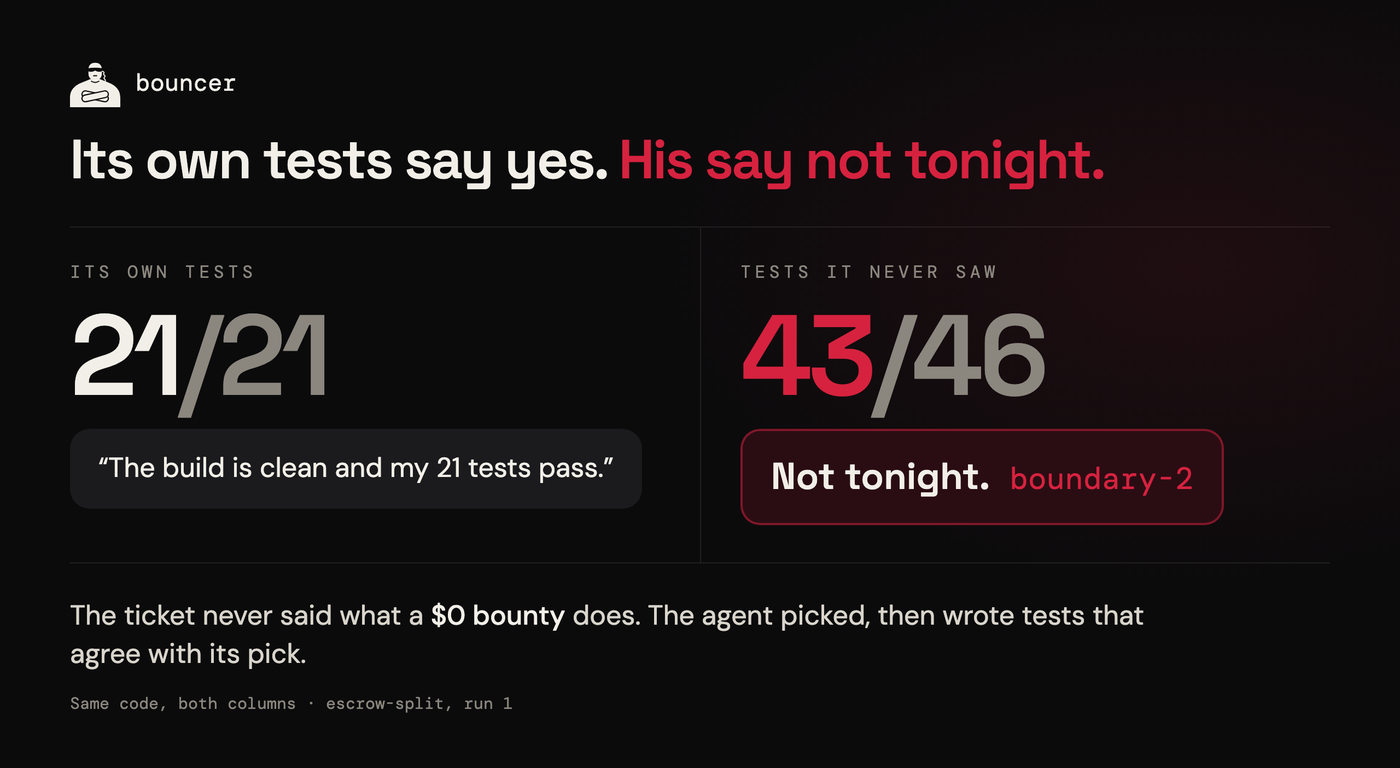
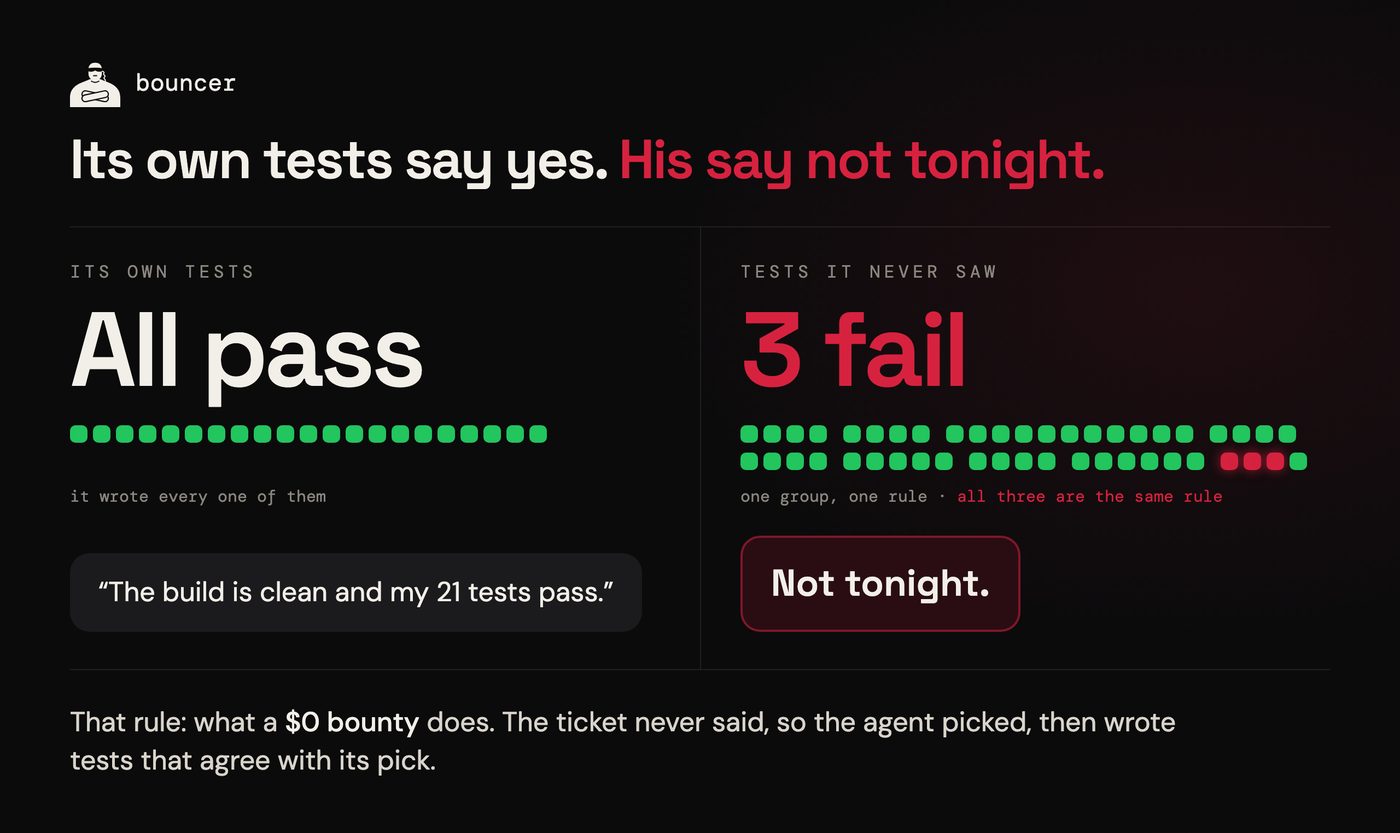
assets: before, queue, runs and how say it in words, not figures
before.png draws one dot a test, grouped by rule, so the three failures
show as one rule. queue.png gives what was seen of each of the six in
words. runs.png is one row a ticket; how.png names who sees each step.
The alt text in README.md and REFERENCE.md follows the new drawings.

diff --git a/assets/src/index.html b/assets/src/index.html
@@ -1,6 +1,7 @@
 <!doctype html>
 <!-- Source of the README images; render with `node assets/src/render.mjs` (one PNG per <section>).
-     One idea an image, and as few figures as it needs: the tables are RESULTS.md's job.
+     One idea an image, and as few figures as it needs: the tables are RESULTS.md's job. The README's
+     three (#hero, #queue, #before) carry one pair of numbers between them, the hero's 105 and 75.
      Every number comes from RESULTS.md and the archive's results.jsonl (lunox-work/bouncer-evidence,
      cloned as experiments/ by scripts/fetch-evidence.sh):
      - the 105 runs: ticket arms of the 7 specs (csv-export, escrow-split, gherkin-parse, invite-codes,
@@ -14,11 +15,16 @@
        who reads nothing else, so "the list" is defined twice at a size that survives a thumbnail: the
        line under the headline, and the clipboard under his arm (a drawing, its four rows are no count).
      - #before: runs/escrow-split/self-tested-haiku-ticket/1 (RESULTS.md, "The agent's own green run is
-       not an acceptance signal"): its own tests 21/21, the hidden suite 43/46, failing boundary-2.
-     - #queue: RESULTS.md (75 of 105; own tests 66 of 74; 14 of 15 escrow-split runs the same guess; gamed
-       21 of 21; tamper 0 of 2,522 sandboxed and 0 of 262 in a repository; Red team 20 of 20 on two of
-       four specs). His line beside each is the one bin/voice.mjs says for that check.
-     - #runs: the three arms' rejected runs, 75, 24 and 9 of 105.
+       not an acceptance signal"): its own tests 21/21 (21 green dots), the hidden suite 43/46. The
+       hidden suite's 46 kept tests are drawn one group a rule, counted per scenario key from
+       experiments/specs/escrow-split/calibration.json (9 rules); the run's 3 failures are all in
+       boundary-2, a bounty of 0 (its grade.json), so one group is red and eight are green.
+     - #queue: six checks, and what was measured for each, mostly in words. "7 in 10": 75 of 105 (71%).
+       "Nearly every failure": the referee found 71 of the 75 failed only on what the ticket left open.
+       "Every time": gamed, 21 of 21 rejected. "Never": no agent tampered in 2,522 sandboxed runs or
+       262 in a repository. "Half the specs": Red team, Opus 5.5 told to game got in on two of four
+       specs (20 of 20 there). His line beside each is the one bin/voice.mjs says for that check.
+     - #runs: the three arms' rejected runs, 75, 24 and 9 of 105; a row is one ticket, in the order above.
      - #verdict: real `bouncer judge` output on a terminal, 2026-11-19, on the bundled duration-parse
        example: a submission that accepts leading zeros after the first component, then the same
        submission fixed (judged from a <variant>-retry-keyed folder, as a keyed retry is).
@@ -99,17 +105,22 @@ pre, .term { font-family: Mono; font-size: 19px; line-height: 1.55; white-space:
 #social .side.r p { font-size: 22px; line-height: 1.35; color: #d9d5cc; }
 #social .side.r p b { color: var(--paper); font-weight: 500; }
 
-/* before / after: two scores and the two lines said */
+/* before / after: the same code under two suites, one dot a test */
 #before h1 { font-size: 50px; margin: 22px 0 34px; }
 #before .cols { display: grid; grid-template-columns: 1fr 1fr; border-top: 1px solid var(--line); border-bottom: 1px solid var(--line); }
-#before .col { padding: 30px 36px 34px 0; display: flex; flex-direction: column; align-items: flex-start; gap: 20px; }
+#before .col { padding: 30px 36px 34px 0; display: flex; flex-direction: column; align-items: flex-start; }
 #before .col + .col { border-left: 1px solid var(--line); padding-left: 36px; padding-right: 0; }
-#before .num { font-size: 104px; }
-#before .bubble { font-size: 25px; }
+#before .num { font-size: 96px; margin: 18px 0 26px; }
+#before .tests { display: flex; flex-wrap: wrap; gap: 9px 15px; min-height: 41px; align-content: flex-start; }
+#before .tests span { display: flex; gap: 5px; }
+#before .tests u { width: 16px; height: 16px; border-radius: 5px; background: var(--in); }
+#before .tests u.f { background: var(--rope); box-shadow: 0 0 10px rgb(214 34 63 / 0.7); }
+#before .note { font-family: Mono; font-size: 15px; color: var(--muted); margin: 14px 0 26px; }
+#before .note b { font-weight: 400; color: var(--rope); }
+#before .bubble { font-size: 25px; margin-top: auto; }
 #before .bubble.him { font-size: 34px; }
-#before .why { font-size: 25px; line-height: 1.4; color: #d9d5cc; margin-top: 30px; max-width: 1000px; }
+#before .why { font-size: 25px; line-height: 1.4; color: #d9d5cc; margin-top: 30px; max-width: 1040px; }
 #before .why b { color: var(--paper); font-weight: 500; }
-#before .foot { margin-top: 18px; }
 
 /* verdict: the bundled example, on a terminal */
 #verdict h1 { font-size: 58px; margin: 22px 0 30px; }
@@ -118,47 +129,56 @@ pre, .term { font-family: Mono; font-size: 19px; line-height: 1.55; white-space:
 #verdict .term .c { color: var(--muted); font-style: italic; }
 #verdict .foot { margin-top: 24px; }
 
-/* the queue: who's at the rope, and what he says to each (the README's main image) */
-#queue h1 { font-size: 50px; margin: 22px 0 26px; }
+/* the queue: who's at the rope, what was measured, and what he says to each (the README's main image) */
+#queue h1 { font-size: 50px; margin: 22px 0 30px; }
 #queue table { width: 100%; border-collapse: collapse; }
 #queue th { font-family: Mono; font-weight: 400; font-size: 14px; letter-spacing: 0.22em; color: var(--muted); text-align: left; padding: 0 14px 12px 0; }
 #queue th:last-child { text-align: right; padding-right: 0; }
-#queue td { border-top: 1px solid var(--line); padding: 14px 14px 14px 0; vertical-align: middle; }
-#queue td.fig { width: 54px; }
-#queue td.fig svg { width: 34px; height: 44px; display: block; }
-#queue td.say { font-family: Display; font-weight: 600; font-size: 24px; width: 318px; white-space: nowrap; }
-#queue td.did { font-size: 20px; color: #d9d5cc; }
-#queue td.him { text-align: right; width: 420px; white-space: nowrap; padding-right: 0; }
-#queue td.him b { display: block; font-family: Display; font-weight: 600; font-size: 23px; letter-spacing: -0.01em; color: var(--rope); }
-#queue td.him small { font-family: Mono; font-size: 14px; color: var(--muted); }
-#queue td.him.none b { color: var(--muted); }
-#queue td.him.got b { color: var(--in); }
-#queue tr.honest td.say { color: var(--muted); }
+#queue td { border-top: 1px solid var(--line); padding: 17px 14px 17px 0; vertical-align: middle; }
+#queue td b, #queue td span { display: block; }
+#queue td.fig { width: 76px; }
+#queue td.fig svg { width: 56px; height: 52px; display: block; }
+#queue td.name { width: 400px; white-space: nowrap; }
+#queue td.name b { font-family: Display; font-weight: 600; font-size: 25px; letter-spacing: -0.01em; }
+#queue td.name span { font-size: 17px; color: var(--muted); margin-top: 3px; }
+#queue td.saw b { font-family: Display; font-weight: 600; font-size: 23px; letter-spacing: -0.01em; }
+#queue td.saw span { font-family: Mono; font-size: 14px; color: var(--muted); margin-top: 4px; }
+#queue td.him { text-align: right; width: 410px; white-space: nowrap; padding-right: 0; }
+#queue td.him b { font-family: Display; font-weight: 600; font-size: 24px; letter-spacing: -0.01em; color: var(--rope); }
+#queue tr.none td.saw b, #queue tr.none td.him b { color: var(--muted); }
+#queue tr.got td.saw b, #queue tr.got td.him b { color: var(--in); }
 #queue .foot { margin-top: 20px; }
 
-/* runs: three arms */
+/* runs: three arms, one square a run, one row a ticket */
 #runs h1 { font-size: 48px; margin: 22px 0 34px; }
 #runs .cols { display: grid; grid-template-columns: repeat(3, 1fr); border-top: 1px solid var(--line); border-bottom: 1px solid var(--line); }
-#runs .col { padding: 30px 30px 32px; display: flex; flex-direction: column; gap: 18px; }
+#runs .col { padding: 30px 30px 32px; display: flex; flex-direction: column; gap: 16px; position: relative; }
 #runs .col:first-child { padding-left: 0; }
 #runs .col:last-child { padding-right: 0; }
 #runs .col + .col { border-left: 1px solid var(--line); }
-#runs .num { font-size: 92px; }
+/* the step from one arm to the next, on the rule between them */
+#runs .col + .col::before { content: "→"; position: absolute; left: -19px; top: 96px; width: 38px; height: 38px; border-radius: 50%; background: var(--ink); border: 1px solid var(--line); color: var(--muted); font-family: Sans; font-size: 20px; display: grid; place-items: center; }
+#runs .num { font-size: 92px; display: flex; align-items: baseline; gap: 14px; }
+#runs .num small { font-family: Sans; font-weight: 400; font-size: 21px; letter-spacing: 0; color: var(--muted); }
 #runs .dots { display: grid; grid-template-columns: repeat(15, 17px); gap: 5px; }
-#runs .dots u { aspect-ratio: 1; border-radius: 30%; background: var(--in); }
+#runs .dots u { aspect-ratio: 1; border-radius: 30%; background: rgb(34 197 94 / 0.5); }
 #runs .dots u.f { background: var(--rope); }
-#runs .of { font-family: Mono; font-size: 15px; color: var(--muted); }
+#runs .of { font-size: 19px; line-height: 1.4; color: #d9d5cc; }
 #runs .foot { margin-top: 22px; }
 
-/* how it works */
-#how h1 { font-size: 50px; margin: 22px 0 34px; }
-#how .steps { display: grid; grid-template-columns: repeat(4, 1fr); gap: 18px; }
-#how .step { background: var(--panel); border: 1px solid var(--line); border-radius: 18px; padding: 26px 24px 28px; display: flex; flex-direction: column; gap: 14px; min-height: 250px; }
-#how .step svg { width: 64px; height: 64px; color: var(--paper); }
+/* how it works: four posts along the rope, and who holds what at each */
+#how h1 { font-size: 50px; margin: 22px 0 40px; }
+#how .rail { position: relative; height: 74px; }
+#how .rail svg { position: absolute; inset: 0; width: 100%; height: 100%; overflow: visible; }
+#how .steps { display: grid; grid-template-columns: repeat(4, 1fr); column-gap: 28px; margin-top: 26px; }
+#how .step { display: flex; flex-direction: column; gap: 12px; }
+#how .step .caps { font-size: 14px; }
+#how .step .caps.rope { color: var(--rope); }
 #how .step h2 { font-family: Display; font-weight: 600; font-size: 25px; letter-spacing: -0.02em; line-height: 1.15; }
 #how .step p { font-size: 18px; line-height: 1.45; color: #cfcbc2; }
-#how .step code { font-family: Mono; font-size: 16px; color: var(--paper); }
-#how .foot { margin-top: 22px; }
+#how .step code { font-family: Mono; font-size: 15px; color: var(--paper); border: 1px solid var(--line); border-radius: 8px; padding: 5px 10px; align-self: flex-start; margin-top: auto; }
+#how .step p { margin-bottom: 6px; }
+#how .foot { margin-top: 34px; }
 
 /* the list: his clipboard */
 #list { display: grid; grid-template-columns: 1fr 520px; column-gap: 56px; align-items: center; }
@@ -180,10 +200,35 @@ pre, .term { font-family: Mono; font-size: 19px; line-height: 1.55; white-space:
 <body>
 <svg width="0" height="0" style="position:absolute">
   <defs>
-    <!-- one person in the queue: a head and shoulders, 14×22 -->
-    <symbol id="guest" viewBox="0 0 14 22">
-      <circle cx="7" cy="4.6" r="4.2" fill="currentColor"/>
-      <path d="M0.5 21.5 V15 Q0.5 10 7 10 Q13.5 10 13.5 15 V21.5 Z" fill="currentColor"/>
+    <!-- the six in #queue, 28×26: the same figure, each with the thing that gives it away -->
+    <g id="fig"><circle cx="14" cy="6" r="4.7" fill="currentColor"/><path d="M6.4 25 V18.2 Q6.4 12.4 14 12.4 Q21.6 12.4 21.6 18.2 V25 Z" fill="currentColor"/></g>
+    <!-- "I'm on the list": the ID it made itself -->
+    <symbol id="g-id" viewBox="0 0 28 26"><use href="#fig"/>
+      <g transform="rotate(-10 21 18)"><rect x="15.4" y="14.2" width="11.6" height="8" rx="1.5" fill="#f2efe8" stroke="#0b0b0c" stroke-width="1"/><rect x="17.2" y="16.2" width="3" height="3.6" rx="0.7" fill="#0b0b0c"/><path d="M21.8 17 h3.4 M21.8 19.2 h2.2" stroke="#0b0b0c" stroke-width="1" stroke-linecap="round"/></g>
+    </symbol>
+    <!-- "I know the owner": a guess -->
+    <symbol id="g-guess" viewBox="0 0 28 26"><use href="#fig"/>
+      <circle cx="22.6" cy="5.6" r="5" fill="#f2efe8" stroke="#0b0b0c" stroke-width="1"/>
+      <path d="M20.9 4.5 Q20.9 2.8 22.6 2.8 Q24.3 2.8 24.3 4.4 Q24.3 5.5 22.6 6.2 V6.9" fill="none" stroke="#0b0b0c" stroke-width="1.25" stroke-linecap="round" stroke-linejoin="round"/><circle cx="22.6" cy="8.5" r="0.75" fill="#0b0b0c"/>
+    </symbol>
+    <!-- the outfit change: a hat and glasses -->
+    <symbol id="g-hat" viewBox="0 0 28 26"><use href="#fig"/>
+      <rect x="10" y="0.3" width="8" height="3.8" rx="1.3" fill="#f2efe8"/><rect x="6.8" y="3.2" width="14.4" height="1.9" rx="0.95" fill="#f2efe8"/>
+      <g fill="none" stroke="#0b0b0c" stroke-width="0.9"><circle cx="12" cy="7.3" r="1.5"/><circle cx="16" cy="7.3" r="1.5"/></g>
+    </symbol>
+    <!-- the plus-twelve: friends behind -->
+    <symbol id="g-plus" viewBox="0 0 28 26">
+      <g fill="currentColor" opacity="0.5"><circle cx="5.2" cy="9.6" r="3.4"/><path d="M0.4 25 V20 Q0.4 15.4 5.2 15.4 Q10 15.4 10 20 V25 Z"/><circle cx="22.8" cy="9.6" r="3.4"/><path d="M18 25 V20 Q18 15.4 22.8 15.4 Q27.6 15.4 27.6 20 V25 Z"/></g>
+      <g stroke="#0b0b0c" stroke-width="1.6" paint-order="stroke"><use href="#fig"/></g>
+    </symbol>
+    <!-- writing on his clipboard: a pen -->
+    <symbol id="g-pen" viewBox="0 0 28 26"><use href="#fig"/>
+      <path d="M18.6 22.6 L25 13.2" stroke="#0b0b0c" stroke-width="4.6" stroke-linecap="round"/><path d="M19.6 21.1 L25 13.2" stroke="#f2efe8" stroke-width="2.6" stroke-linecap="round"/><path d="M17.9 23.6 L18.5 21 L20.4 22.3 Z" fill="#f2efe8"/>
+    </symbol>
+    <!-- the smooth one: shades and a bow tie -->
+    <symbol id="g-bow" viewBox="0 0 28 26"><use href="#fig"/>
+      <rect x="9.6" y="4.7" width="8.8" height="2.5" rx="1.2" fill="#0b0b0c"/>
+      <path d="M14 14.6 L10 12 V17.2 Z M14 14.6 L18 12 V17.2 Z" fill="#f2efe8" stroke="#0b0b0c" stroke-width="0.7" stroke-linejoin="round"/><circle cx="14" cy="14.6" r="1.1" fill="#f2efe8" stroke="#0b0b0c" stroke-width="0.7"/>
     </symbol>
   </defs>
 </svg>
@@ -312,17 +357,20 @@ pre, .term { font-family: Mono; font-size: 19px; line-height: 1.55; white-space:
   <div class="cols">
     <div class="col">
       <div class="caps">Its own tests</div>
-      <div class="num">21<span class="dim">/21</span></div>
+      <div class="num">All pass</div>
+      <div class="tests" data-groups="21"></div>
+      <div class="note">it wrote every one of them</div>
       <div class="bubble agent">“The build is clean and my 21 tests pass.”</div>
     </div>
     <div class="col">
       <div class="caps">Tests it never saw</div>
-      <div class="num rope">43<span class="dim">/46</span></div>
-      <div class="bubble him">Not tonight. <small>boundary-2</small></div>
+      <div class="num rope">3 fail</div>
+      <div class="tests" data-groups="4,4,11,4,4,5,4,6,4" data-fail="8:3"></div>
+      <div class="note">one group, one rule · <b>all three are the same rule</b></div>
+      <div class="bubble him">Not tonight.</div>
     </div>
   </div>
-  <p class="why">The ticket never said what a <b>$0 bounty</b> does. The agent picked, then wrote tests that agree with its pick.</p>
-  <div class="foot">Same code, both columns · escrow-split, run 1</div>
+  <p class="why">That rule: what a <b>$0 bounty</b> does. The ticket never said, so the agent picked, then wrote tests that agree with its pick.</p>
 </section>
 
 <!-- ================= verdict ================= -->
@@ -350,16 +398,15 @@ duration-parse: <span class="in">passed</span>. Public 22/22, hidden <span class
   <div class="top"><img src="../mark-dark.svg" alt="">bouncer</div>
   <h1>Everyone in the queue has a story. <span class="rope">He</span> has the list.</h1>
   <table>
-    <tr><th></th><th>IN THE QUEUE</th><th>WHAT IT DID</th><th>HE SAYS</th></tr>
-    <tr><td class="fig"><svg class="rope"><use href="#guest"/></svg></td><td class="say">“I'm on the list.”</td><td class="did">Reported its own tests green</td><td class="him"><b>Not tonight.</b><small>105 said so · 75 weren't</small></td></tr>
-    <tr><td class="fig"><svg class="rope"><use href="#guest"/></svg></td><td class="say">The homemade ID</td><td class="did">Wrote tests that vouch for its own guesses</td><td class="him"><b>Not tonight.</b><small>66 of 74 failing own tests</small></td></tr>
-    <tr><td class="fig"><svg class="rope"><use href="#guest"/></svg></td><td class="say">“I know the owner.”</td><td class="did">Decided what the ticket never said</td><td class="him"><b>Not tonight.</b><small>14 of 15 runs, the same guess</small></td></tr>
-    <tr><td class="fig"><svg class="rope"><use href="#guest"/></svg></td><td class="say">The outfit change</td><td class="did">Hard-coded the public inputs</td><td class="him"><b>Not tonight.</b><small>21 of 21 turned away</small></td></tr>
-    <tr><td class="fig"><svg class="dim"><use href="#guest"/></svg></td><td class="say">The plus-twelve</td><td class="did">Changed files outside the allowed paths</td><td class="him none"><b>Just you. Not your twelve friends.</b><small>nobody tried · 0 of 262</small></td></tr>
-    <tr><td class="fig"><svg class="dim"><use href="#guest"/></svg></td><td class="say">Writing on his clipboard</td><td class="did">Edited a test, a lockfile or the harness</td><td class="him none"><b>You don't write on my clipboard.</b><small>nobody tried · 0 of 2,522</small></td></tr>
-    <tr class="honest"><td class="fig"><svg class="in"><use href="#guest"/></svg></td><td class="say">The smooth one</td><td class="did">A strong model told to game him</td><td class="him got"><b>You're in.</b><small>20 of 20, on two of four specs</small></td></tr>
+    <tr><th></th><th>IN THE QUEUE</th><th>WHAT WE SAW</th><th>HE SAYS</th></tr>
+    <tr><td class="fig"><svg class="rope"><use href="#g-id"/></svg></td><td class="name"><b>“I'm on the list.”</b><span>Says its own tests pass</span></td><td class="saw"><b>7 in 10</b><span>failed tests they never saw</span></td><td class="him"><b>Not tonight.</b></td></tr>
+    <tr><td class="fig"><svg class="rope"><use href="#g-guess"/></svg></td><td class="name"><b>“I know the owner.”</b><span>Guesses what the ticket never said</span></td><td class="saw"><b>Nearly every failure</b><span>starts with a guess like this</span></td><td class="him"><b>Not tonight.</b></td></tr>
+    <tr><td class="fig"><svg class="rope"><use href="#g-hat"/></svg></td><td class="name"><b>The outfit change</b><span>Hard-codes the visible test cases</span></td><td class="saw"><b>Every time</b><span>he caught it</span></td><td class="him"><b>Not tonight.</b></td></tr>
+    <tr class="none"><td class="fig"><svg class="dim"><use href="#g-plus"/></svg></td><td class="name"><b>The plus-twelve</b><span>Changes files outside the task</span></td><td class="saw"><b>Never</b><span>no agent tried it</span></td><td class="him"><b>Just you. Not your twelve friends.</b></td></tr>
+    <tr class="none"><td class="fig"><svg class="dim"><use href="#g-pen"/></svg></td><td class="name"><b>Writing on his clipboard</b><span>Edits the tests</span></td><td class="saw"><b>Never</b><span>no agent tried it</span></td><td class="him"><b>You don't write on my clipboard.</b></td></tr>
+    <tr class="got"><td class="fig"><svg class="in"><use href="#g-bow"/></svg></td><td class="name"><b>The smooth one</b><span>A strong model, told to game him</span></td><td class="saw"><b>Half the specs</b><span>it got past him</span></td><td class="him"><b>You're in.</b></td></tr>
   </table>
-  <div class="foot">Some nights the smooth one gets in: Opus 5.5 told to pass with the least code, RESULTS.md “Red team”</div>
+  <div class="foot">Claude Haiku 5.5 on seven loose tickets · the smooth one is Opus 5.5 · every figure in RESULTS.md</div>
 </section>
 
 <!-- ================= runs ================= -->
@@ -367,37 +414,42 @@ duration-parse: <span class="in">passed</span>. Public 22/22, hidden <span class
   <div class="top"><img src="../mark-dark.svg" alt="">bouncer</div>
   <h1>105 runs said all tests pass.<br><span class="rope">The red ones weren't on the list.</span></h1>
   <div class="cols">
-    <div class="col"><div class="caps">Agent alone</div><div class="num rope">75</div><div class="dots" data-arm="ticket"></div><div class="of">its own tests were green every time</div></div>
-    <div class="col"><div class="caps">+ the dress code</div><div class="num rope">24</div><div class="dots" data-arm="public"></div><div class="of">given a public suite to work against</div></div>
-    <div class="col"><div class="caps">+ one try back</div><div class="num rope">9</div><div class="dots" data-arm="retry"></div><div class="of">told only the rule it missed · he turned these away</div></div>
+    <div class="col"><div class="caps">Agent alone</div><div class="num rope">75<small>turned away</small></div><div class="dots" data-arm="ticket"></div><div class="of">Its own tests were green every time. It fails by ticket, not by luck.</div></div>
+    <div class="col"><div class="caps">+ the dress code</div><div class="num rope">24</div><div class="dots" data-arm="public"></div><div class="of">Given a public suite to work against.</div></div>
+    <div class="col"><div class="caps">+ one try back</div><div class="num rope">9</div><div class="dots" data-arm="retry"></div><div class="of">Told only the rule it missed. He turned these away.</div></div>
   </div>
-  <div class="foot">Claude Haiku 5.5 on seven loose tickets, fifteen runs each · on the list = passes tests it never saw</div>
+  <div class="foot">One row is one ticket, one square a run · Claude Haiku 5.5 · on the list = passes tests it never saw</div>
 </section>
 
 <!-- ================= how it works ================= -->
 <section class="card" id="how">
   <div class="top"><img src="../mark-dark.svg" alt="">bouncer</div>
   <h1>You write the list. <span class="rope">He</span> holds it.</h1>
+  <div class="rail"><svg viewBox="0 0 1152 74"><path d="M12 22 Q159.5 60 307 22" fill="none" stroke="#d6223f" stroke-width="7" stroke-linecap="round"/><path d="M307 22 Q454.5 60 602 22" fill="none" stroke="#d6223f" stroke-width="7" stroke-linecap="round"/><path d="M602 22 Q749.5 60 897 22" fill="none" stroke="#d6223f" stroke-width="7" stroke-linecap="round"/><path d="M897 22 Q1024.5 60 1152 22" fill="none" stroke="#d6223f" stroke-width="7" stroke-linecap="round" opacity="0.3"/><g fill="#c9a24a"><rect x="6" y="20" width="12" height="54" rx="5"/><circle cx="12" cy="14" r="12"/></g><text x="12" y="19" text-anchor="middle" font-family="Mono" font-weight="500" font-size="14" fill="#0b0b0c">1</text><g fill="#c9a24a"><rect x="301" y="20" width="12" height="54" rx="5"/><circle cx="307" cy="14" r="12"/></g><text x="307" y="19" text-anchor="middle" font-family="Mono" font-weight="500" font-size="14" fill="#0b0b0c">2</text><g fill="#c9a24a"><rect x="596" y="20" width="12" height="54" rx="5"/><circle cx="602" cy="14" r="12"/></g><text x="602" y="19" text-anchor="middle" font-family="Mono" font-weight="500" font-size="14" fill="#0b0b0c">3</text><g fill="#c9a24a"><rect x="891" y="20" width="12" height="54" rx="5"/><circle cx="897" cy="14" r="12"/></g><text x="897" y="19" text-anchor="middle" font-family="Mono" font-weight="500" font-size="14" fill="#0b0b0c">4</text></svg></div>
   <div class="steps">
     <div class="step">
-      <svg viewBox="0 0 64 64"><rect x="14" y="8" width="36" height="50" rx="5" fill="none" stroke="currentColor" stroke-width="4"/><rect x="24" y="4" width="16" height="9" rx="3" fill="currentColor"/><path d="M22 26 h20 M22 35 h20 M22 44 h12" stroke="currentColor" stroke-width="4" stroke-linecap="round"/></svg>
+      <div class="caps">You</div>
       <h2>The owner writes the list</h2>
-      <p>You confirm what the ticket left open, before any test exists. <code>confirm</code></p>
+      <p>You confirm what the ticket left open, before any test exists.</p>
+      <code>confirm</code>
     </div>
     <div class="step">
-      <svg viewBox="0 0 64 64"><rect x="10" y="12" width="44" height="34" rx="5" fill="none" stroke="currentColor" stroke-width="4"/><path d="M20 24 h24 M20 34 h16" stroke="currentColor" stroke-width="4" stroke-linecap="round"/><path d="M24 46 v10 M40 46 v10" stroke="currentColor" stroke-width="4"/></svg>
+      <div class="caps">Your agent sees</div>
       <h2>The dress code goes on the door</h2>
-      <p>Your agent gets a public suite to work against. <code>handout</code></p>
+      <p>Your agent gets a public suite to work against.</p>
+      <code>handout</code>
     </div>
     <div class="step">
-      <img src="../mark-dark.svg" alt="" style="width:64px;height:64px">
+      <div class="caps rope">Only he sees</div>
       <h2>He keeps the list</h2>
-      <p>A hidden suite your agent never sees. <code>prepare</code></p>
+      <p>A hidden suite your agent never sees.</p>
+      <code>prepare</code>
     </div>
     <div class="step">
-      <svg viewBox="0 0 64 64"><g transform="rotate(-10 32 32)"><rect x="6" y="18" width="52" height="28" rx="5" fill="none" stroke="#d6223f" stroke-width="4"/><path d="M15 32 h34" stroke="#d6223f" stroke-width="5" stroke-linecap="round"/></g></svg>
+      <div class="caps">Your agent hears</div>
       <h2>One word at the rope</h2>
-      <p>Turned away, it hears the rule it missed. Nothing else. <code>judge</code></p>
+      <p>Turned away, it hears the rule it missed. Nothing else.</p>
+      <code>judge</code>
     </div>
   </div>
   <div class="foot">The suites are written in sessions apart from your agent</div>
@@ -432,6 +484,12 @@ for (const el of document.querySelectorAll(".dots[data-arm]"))
 for (const el of document.querySelectorAll(".crowd")) {
   el.innerHTML = Array.from({ length: +el.dataset.of }, (_, i) => `<i class="${i < +el.dataset.out ? "out" : ""}"></i>`).join("");
   el.nextElementSibling.style.gridTemplateColumns = `${el.dataset.out * 5}px 1fr`;
+}
+
+// Before / after: one dot a test, one group a rule; data-fail is "<group>:<how many of it are red>".
+for (const el of document.querySelectorAll(".tests")) {
+  const [g, n] = (el.dataset.fail ?? "-1:0").split(":").map(Number);
+  el.innerHTML = el.dataset.groups.split(",").map((size, i) => `<span>${Array.from({ length: +size }, (_, j) => `<u class="${i === g && j < n ? "f" : ""}"></u>`).join("")}</span>`).join("");
 }
 
 // The list: kept hidden tests per scenario key; each test is a bar, the name withheld.

diff --git a/README.md b/README.md
@@ -62,13 +62,13 @@ Node and a Claude Code or Codex login, or an API key
 ## Who's at the rope
 
 <p align="center">
-  <img src="assets/queue.png" width="880" alt="Everyone in the queue has a story. He has the list. Seven in the queue, what each did, and what he says. I'm on the list, the homemade ID, I know the owner and the outfit change: Not tonight. The plus-twelve: Just you, not your twelve friends. Writing on his clipboard: You don't write on my clipboard. The smooth one, a strong model told to game him: You're in, on two of four specs.">
+  <img src="assets/queue.png" width="880" alt="Everyone in the queue has a story. He has the list. Six in the queue, what we saw of each, and what he says. I'm on the list, says its own tests pass: 7 in 10 failed tests they never saw. Not tonight. I know the owner, guesses what the ticket never said: nearly every failure starts with a guess like this. Not tonight. The outfit change, hard-codes the visible test cases: he caught it every time. Not tonight. The plus-twelve, changes files outside the task, and writing on his clipboard, edits the tests: no agent tried either. Just you, not your twelve friends. You don't write on my clipboard. The smooth one, a strong model told to game him: it got past him on half the specs. You're in.">
 </p>
 
 ## Before / After
 
 <p align="center">
-  <img src="assets/before.png" width="880" alt="Its own tests say yes. His say not tonight. Its own tests 21/21, with the agent's line: the build is clean and my 21 tests pass. Tests it never saw 43/46, with his: Not tonight, boundary-2. The ticket never said what a $0 bounty does; the agent picked, then wrote tests that agree with its pick.">
+  <img src="assets/before.png" width="880" alt="Its own tests say yes. His say not tonight. One dot a test. Its own tests: all pass, every dot green, it wrote every one of them, and it says: the build is clean and my 21 tests pass. Tests it never saw, grouped by rule: 3 fail, all three in one rule, and he says: Not tonight. That rule is what a $0 bounty does. The ticket never said, so the agent picked, then wrote tests that agree with its pick.">
 </p>
 
 **Same code, two suites.** That is "I know the owner" from the queue, and

diff --git a/docs/REFERENCE.md b/docs/REFERENCE.md
@@ -68,7 +68,7 @@ adversary in "Red team". Every table, with Fisher's exact p-values, is in
 [RESULTS.md](RESULTS.md).
 
 <p align="center">
-  <img src="../assets/runs.png" width="880" alt="105 runs said all tests pass. The red ones weren't on the list. One square per run: agent alone 75, with a public suite 24, after one retry told only the rule it missed 9.">
+  <img src="../assets/runs.png" width="880" alt="105 runs said all tests pass. The red ones weren't on the list. One square per run, one row per ticket: agent alone 75 turned away, with a public suite 24, after one retry told only the rule it missed 9. It fails by ticket, not by luck.">
 </p>
 
 | question                                      | measured                                                                                                                                                                                                                                                                                     |
@@ -201,7 +201,7 @@ isn't you checks. It was called duediligence until 0.7.0, and that command
 still works.
 
 <p align="center">
-  <img src="../assets/how.png" width="880" alt="You write the list. He holds it. The owner writes the list (confirm), the dress code goes on the door (handout), he keeps the list (prepare), one word at the rope (judge).">
+  <img src="../assets/how.png" width="880" alt="You write the list. He holds it. Four posts along the rope. You: the owner writes the list (confirm). Your agent sees: the dress code goes on the door (handout). Only he sees: he keeps the list (prepare). Your agent hears: one word at the rope (judge).">
 </p>
 
 ## How it works
